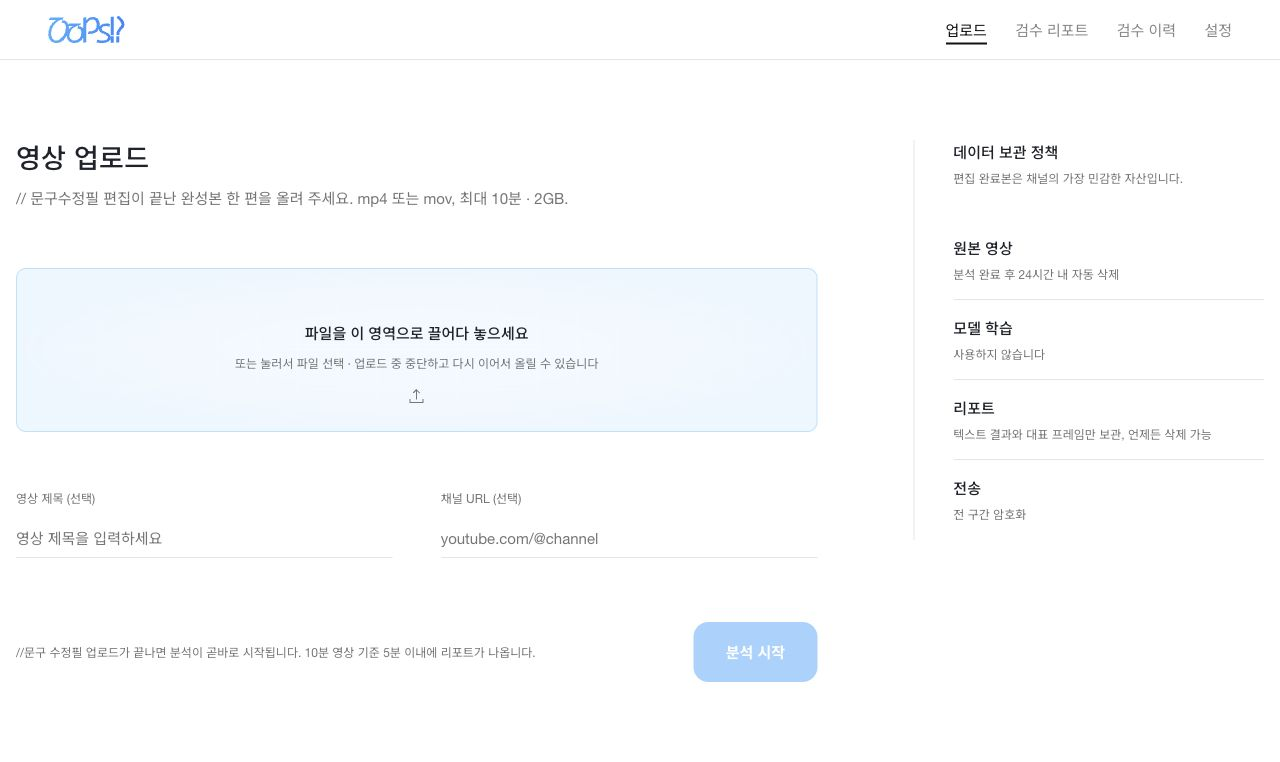
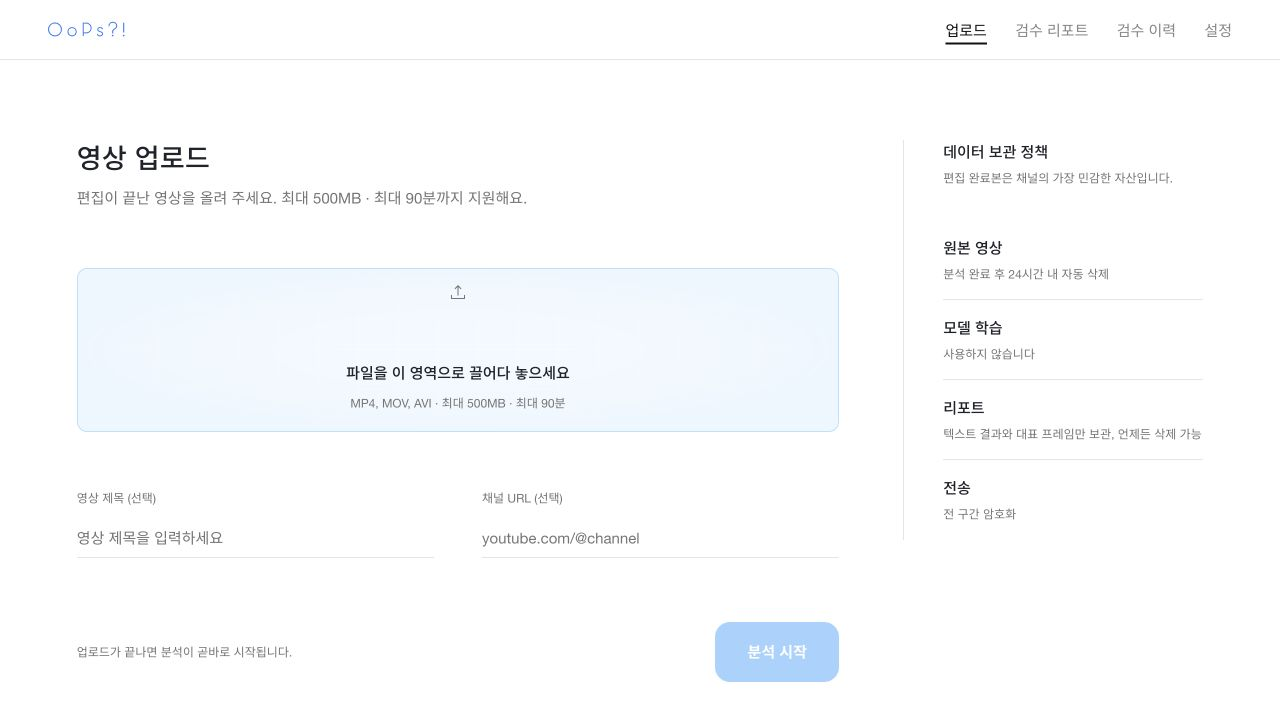
docs: update project screenshots and README documentation

diff --git a/README.md b/README.md
@@ -6,12 +6,12 @@
 
 **업로드 전에, 다시 확인할 구간만 찾습니다.**
 
-편집이 끝난 영상의 발언·화면 자막·화면 속 삽입 이미지를 분석해<br />
-제작자가 직접 검토할 타임라인을 만드는 **React 19 + TypeScript MVP**입니다.
+편집이 끝난 영상의 발언과 화면을 살펴보고,<br />
+제작자가 직접 검토할 타임라인을 만드는 **React 19 · TypeScript MVP**입니다.
 
 <p>
   <a href="#빠른-시작">빠른 시작</a> ·
-  <a href="#화면">화면</a> ·
+  <a href="#제품-경험">제품 경험</a> ·
   <a href="#api-연결">API 연결</a> ·
   <a href="#검증">검증</a>
 </p>
@@ -19,78 +19,53 @@
 ![React](https://img.shields.io/badge/React-19-149eca?style=flat-square&logo=react&logoColor=white)
 ![TypeScript](https://img.shields.io/badge/TypeScript-6-3178c6?style=flat-square&logo=typescript&logoColor=white)
 ![Vite](https://img.shields.io/badge/Vite-8-646cff?style=flat-square&logo=vite&logoColor=white)
-![Mock API](https://img.shields.io/badge/API-Mock%20Server-111827?style=flat-square)
+![STOMP](https://img.shields.io/badge/WebSocket-STOMP-111827?style=flat-square)
 
 </div>
 
 <br />
 
 > OoPs!?는 논란 여부를 판정하거나 영상을 자동으로 고치지 않습니다.<br />
-> 근거가 보이는 검토 후보를 제시하고, 최종 판단은 제작자에게 남깁니다.
+> 확인이 필요한 후보와 근거를 보여주고, 최종 판단은 제작자에게 남깁니다.
 
-## 빠른 시작
+## 프로젝트 소개
 
-```bash
-git clone <repository-url>
-cd CentralHackathon
-npm install
-npm run dev
-```
+영상은 완성된 뒤에도 한 번 더 확인할 순간이 있습니다. 발언과 자막의 강도가 달라지거나, 화면 속 문구가 의도보다 세게 전달되거나, 맥락을 더 확인해야 하는 장면이 생길 수 있습니다.
 
-| 주소 | 역할 |
-| --- | --- |
-| `http://localhost:5173` | Vite 프런트엔드 |
-| `http://localhost:3001` | 디스크 저장형 Mock REST/STOMP 서버 |
+Creator Risk Manager는 영상을 업로드하면 음성·화면 텍스트·장면 정보를 바탕으로 검토 후보를 시간순으로 정리합니다. 제작자는 해당 시점의 영상을 바로 확인하고, 수정·확인·보류를 선택할 수 있습니다.
 
-`npm run dev`가 두 서버를 함께 실행하고, Vite가 `/api`와 `/ws`를 Mock 서버로 프록시합니다.
+### 우리가 지키는 원칙
 
-### 개발용 옵션
+- 자동 판정 대신 **검토 후보와 근거**를 제공합니다.
+- 이벤트의 시간 정보를 기준으로 원본 영상의 해당 위치까지 이동합니다.
+- 분석이 일부 완료되지 않은 경우에도 결과와 경고를 구분해 보여줍니다.
+- 원본 영상과 분석 결과의 보관 정책을 명확하게 안내합니다.
 
-```bash
-# 분석 단계 전환 속도 조절
-MOCK_STEP_MS=300 npm run dev
+## 제품 경험
 
-# 첫 작업만 실패시켜 실패·재시도 화면 확인
-MOCK_FAIL_FIRST_JOB=true npm run dev
-```
+### 1. 랜딩
 
-업로드 파일과 작업 상태는 `mock-data/`에 저장됩니다. 이 디렉터리는 Git에 포함되지 않습니다.
-
-## 화면
-
-현재 구현은 Figma 화면을 기준으로 고정한 최소 프레젠테이션 계층입니다.<br />
-서버 DTO는 API 훅에서 화면용 상태로 변환되고, 실제 디자인이 도착하면 CSS와 프레젠테이션 컴포넌트만 교체할 수 있습니다.
-
-디자인 기준: [OoPs!? Figma 파일](https://www.figma.com/design/Zm5hPAQ7ujUmt5HRpxS9ZW/OoPs-?node-id=0-1&t=ywsrVSnoqyNMAk84-1)
-
-### 랜딩
-
-서비스가 무엇을 보고 무엇을 보지 않는지 설명하고, 두 CTA 모두 업로드 화면으로 연결됩니다.
+서비스가 어떤 정보를 확인하고 어떤 판단을 하지 않는지 설명합니다. 두 개의 업로드 CTA는 모두 영상 업로드 화면으로 이어집니다.
 
 <p align="center">
   <img src="assets/screenshots/landing.jpg" alt="OoPs!? 랜딩 페이지" width="900" />
 </p>
 
-### 업로드 · 빈 상태 · 설정
+### 2. 업로드
 
-<table>
-  <tr>
-    <td width="50%"><img src="assets/screenshots/upload.jpg" alt="영상 업로드 화면" /></td>
-    <td width="50%"><img src="assets/screenshots/settings.jpg" alt="설정 및 결제 화면" /></td>
-  </tr>
-  <tr>
-    <td align="center"><sub>영상 업로드</sub></td>
-    <td align="center"><sub>설정 · 결제</sub></td>
-  </tr>
-  <tr>
-    <td width="50%"><img src="assets/screenshots/report-empty.jpg" alt="빈 검수 리포트 화면" /></td>
-    <td width="50%"><img src="assets/screenshots/history-empty.jpg" alt="빈 검수 이력 화면" /></td>
-  </tr>
-  <tr>
-    <td align="center"><sub>검수 리포트 빈 상태</sub></td>
-    <td align="center"><sub>검수 이력 빈 상태</sub></td>
-  </tr>
-</table>
+`mp4`, `mov`, `avi` 파일을 업로드할 수 있습니다. 현재 화면은 최대 500MB·최대 90분 정책을 안내하며, 파일을 끌어놓거나 선택하는 방식을 지원합니다.
+
+### 3. 분석 진행
+
+업로드 직후 `PENDING` 상태로 작업이 생성됩니다. 분석 화면은 먼저 REST 상태를 복구한 뒤 STOMP 진행률을 구독하고, 연결이 끊기면 3초 간격 polling으로 전환합니다. 새로고침하거나 화면을 닫아도 작업 상태를 다시 확인할 수 있습니다.
+
+### 4. 검수 리포트
+
+완료된 분석은 타임라인 후보로 표시됩니다. 후보를 선택하면 영상이 `startMs / 1000` 위치로 이동하고, 필요하면 대표 프레임·참고 자료·부분 분석 경고를 함께 확인할 수 있습니다.
+
+### 5. 검수 완료와 이력
+
+검수 후보를 모두 확인한 뒤 완료 화면으로 이동합니다. 검수 이력에서는 업로드한 영상의 상태, 진행률, 후보 수를 확인할 수 있으며, 아직 영상이 없을 때는 업로드 화면으로 안내합니다.
 
 ## 사용자 흐름
 
@@ -102,26 +77,56 @@ flowchart LR
   C -->|COMPLETED| D[검수 리포트 /videos/:id/report]
   C -->|FAILED| E[원인 표시]
   E -->|다시 분석하기| C
-  D -->|이벤트 선택| F[영상 startMs 위치로 seek]
+  D -->|후보 선택| F[영상 startMs 위치로 이동]
   G[검수 이력 /history] -->|완료 작업 선택| D
 ```
 
-## 주요 경로
+## 빠른 시작
 
-| 화면 | 경로 | 연결 지점 |
+```bash
+git clone <repository-url>
+cd CentralHackathon
+npm install
+npm run dev
+```
+
+개발 서버가 실행되면 다음 주소를 사용할 수 있습니다.
+
+| 주소 | 역할 |
+| --- | --- |
+| `http://localhost:5173` | Vite 프런트엔드 |
+| `http://localhost:3001` | 디스크 저장형 Mock REST·STOMP 서버 |
+
+`npm run dev`는 프런트엔드와 Mock 서버를 함께 실행합니다. Vite 개발 서버는 `/api`와 `/ws` 요청을 Mock 서버로 프록시합니다.
+
+### Mock 서버 옵션
+
+```bash
+# 분석 단계 전환을 빠르게 확인
+MOCK_STEP_MS=300 npm run dev
+
+# 첫 분석만 실패시켜 실패·재시도 흐름 확인
+MOCK_FAIL_FIRST_JOB=true npm run dev
+```
+
+업로드 파일과 작업 상태는 로컬 `mock-data/`에 저장됩니다. 해당 디렉터리는 Git에 포함되지 않습니다.
+
+## 화면과 라우트
+
+| 화면 | 경로 | 주요 동작 |
 | --- | --- | --- |
-| 랜딩 | `/` | API 없음 · 업로드 CTA만 제공 |
-| 영상 업로드 | `/upload` | `POST /api/v1/videos` |
-| 분석 진행 | `/videos/:videoId/analysis` | `GET /status`, STOMP `/ws`, 3초 polling fallback |
-| 검수 리포트 | `/videos/:videoId/report` | `GET /report`, Range 영상 스트림, 프레임 URL |
-| 검수 리포트 빈 상태 | `/report` | 업로드 유도 CTA |
-| 검수 이력 | `/history` | `GET /api/v1/videos` |
-| 설정 · 결제 | `/settings` | MVP에서는 안내 화면만 제공 |
+| 랜딩 | `/` | 서비스 소개, 업로드 CTA |
+| 영상 업로드 | `/upload` | 파일 선택·업로드, 형식·크기 정책 안내 |
+| 분석 진행 | `/videos/:videoId/analysis` | 상태 복구, STOMP 진행률, polling fallback, 재시도 |
+| 검수 리포트 | `/videos/:videoId/report` | 타임라인, 영상 seek, 참고 자료, 검수 액션 |
+| 검수 완료 | `/videos/:videoId/completed` | 검수 요약, 타임코드 복사, 다음 작업 안내 |
+| 검수 리포트 빈 상태 | `/report` | 업로드 유도 화면 |
+| 검수 이력 | `/history` | 전체·완료·실패 건수와 영상별 상태 |
+| 설정 | `/settings` | 보관·결제·계정 정책 안내 |
 
 ## API 연결
 
-프런트의 모든 HTTP 요청은 [`src/api/client.ts`](src/api/client.ts)를 통과합니다.<br />
-실제 Spring 서버가 준비되면 코드 수정 없이 주소와 계약만 맞춰 환경변수를 바꿉니다.
+프런트의 HTTP 요청은 모두 [`src/api/client.ts`](src/api/client.ts)를 거칩니다. 서버 주소를 환경변수로 지정하면 화면 컴포넌트의 수정 없이 실제 Spring API로 교체할 수 있습니다.
 
 ```bash
 VITE_API_BASE_URL=https://api.example.com \
@@ -129,35 +134,51 @@ VITE_WS_URL=wss://api.example.com/ws \
 npm run dev
 ```
 
-필수 계약은 다음과 같습니다.
+`VITE_API_BASE_URL`에는 `/api/v1`을 포함하지 않은 API 서버 주소를 입력합니다. 프런트가 `/api/v1` 경로를 붙여 요청합니다.
 
-- REST base path: `/api/v1`
-- WebSocket endpoint: `/ws`
-- 업로드: `POST /videos` (`mp4`, `mov`, `avi`, 최대 500MB)
-- 상태: `GET /videos/:id/status`
-- 리포트: `GET /videos/:id/report`
-- 재시도: `POST /videos/:id/analysis/retry`
-- 영상: `GET /videos/:id/stream` (`Range`, `206`, `416` 지원)
-- 진행률: STOMP `/topic/videos/:id/progress`
+### 외부 API 계약
 
-> **Vercel 배포 참고**<br />
-> Vercel 정적 배포에는 `server/index.ts`가 포함되지 않습니다. 배포 환경에서는 `VITE_API_BASE_URL`과 `VITE_WS_URL`을 실제 API 서버로 지정하고, API 서버에서 프런트 도메인 CORS와 WebSocket origin을 허용해야 합니다. 주소를 지정하지 않은 정적 데모에서는 이력 화면이 연결 안내가 포함된 빈 상태로 표시됩니다.
+| 기능 | 요청 |
+| --- | --- |
+| 업로드 | `POST /api/v1/videos` · `multipart/form-data` · `file`, optional `genre` |
+| 상태 조회 | `GET /api/v1/videos/:videoId/status` |
+| 검수 이력 | `GET /api/v1/videos` |
+| 리포트 | `GET /api/v1/videos/:videoId/report` |
+| 재시도 | `POST /api/v1/videos/:videoId/analysis/retry` |
+| 영상 재생 | `GET /api/v1/videos/:videoId/stream` · HTTP Range |
+| 프레임 | `GET /api/v1/videos/:videoId/frames/:frameId` |
+| 진행률 | STOMP `/ws` 구독 `/topic/videos/:videoId/progress` |
+
+성공 응답은 `success / message / data`, 오류 응답은 `success / message / error.code / error.traceId` 구조를 사용합니다. 프런트는 `error.code`로 상태를 분기하고, `message`를 사용자에게 표시합니다.
+
+리포트 이벤트는 `startMs`, `endMs`, `type`, `reason`, `frameUrl`을 기본으로 사용하며, 필요에 따라 `candidateType`, `references[]`, `coverage[]`, `warnings[]`를 받을 수 있습니다.
+
+### WebSocket 동작
+
+- 구독 경로: `/topic/videos/:videoId/progress`
+- `jobId`가 현재 분석 작업과 다르면 오래된 메시지를 무시합니다.
+- 연결이 실패하거나 끊기면 3초 polling으로 상태를 확인합니다.
+- `COMPLETED` 수신 시 리포트로 이동하고, `FAILED` 수신 시 원인과 재시도 버튼을 표시합니다.
+
+### Vercel 배포 참고
+
+Vercel의 정적 배포에는 `server/index.ts`가 포함되지 않습니다. 배포 시 실제 API 서버의 주소를 `VITE_API_BASE_URL`, `VITE_WS_URL`에 지정하고, 백엔드에서 프런트 도메인의 CORS와 WebSocket origin을 허용해야 합니다.
 
 ## 프로젝트 구조
 
 ```text
 .
 ├── src/
-│   ├── api/                 # DTO 타입과 단일 API client
-│   ├── components/          # 공통 shell, 상태 UI
-│   ├── hooks/               # 업로드·진행률·리포트·재시도 상태
-│   ├── App.tsx              # 라우트와 화면 조합
-│   ├── style.css            # Figma 기준 토큰·반응형 스타일
-│   └── assets/logo/         # OoPs!? 로고 SVG
-├── server/index.ts          # 임시 REST + STOMP Mock 서버
+│   ├── api/                  # API DTO와 단일 API client
+│   ├── components/           # 공통 shell과 상태 UI
+│   ├── hooks/                # 업로드·진행률·리포트·재시도 상태
+│   ├── styles/               # 공통·페이지별 CSS
+│   ├── App.tsx               # 라우트와 화면 조합
+│   └── assets/logo/          # OoPs!? 로고 SVG
+├── server/index.ts           # 임시 REST + STOMP Mock 서버
 ├── scripts/contract-smoke.ts # 핵심 API 계약 스모크 테스트
-├── assets/screenshots/      # README와 공유용 화면 캡처
-└── mock-data/               # 로컬 업로드·상태 저장 (Git 제외)
+├── assets/screenshots/       # README용 화면 캡처
+└── mock-data/                # 로컬 업로드·상태 저장 (Git 제외)
 ```
 
 ## 검증
@@ -170,13 +191,38 @@ npm run build
 git diff --check
 ```
 
-Mock 서버는 업로드, 상태 전이, 첫 작업 실패/재시도, 리포트, 프레임, 영상 Range 스트리밍, STOMP 진행률을 제공합니다.
+계약 스모크 테스트는 업로드, 이력 조회, 상태 전이, 완료 리포트, 영상 Range 응답을 확인합니다. Mock 서버는 첫 작업 실패와 재시도, 프레임 응답, STOMP 진행률도 제공합니다.
 
 ## 현재 범위
 
-포함: 업로드 전 검토 UI, 진행률 복구, polling fallback, 실패·재시도, 리포트 타임라인, 영상 seek, 빈 상태, 반응형 최소 레이아웃.
+### 포함
 
-제외: 인증, 사용자별 영상 목록 권한, 결제 연동, 결과 편집·다운로드, 실제 AI 분석, Spring ↔ Python 내부 API.
+- 업로드 전 검토 안내와 최소 반응형 UI
+- 파일 업로드와 분석 상태 복구
+- STOMP 진행률 및 polling fallback
+- 분석 실패·재시도 흐름
+- 리포트 타임라인과 영상 위치 이동
+- 참고 자료·부분 분석 경고 표시
+- 검수 완료 화면과 검수 이력
+- 디스크 저장형 Mock REST·STOMP 서버
+
+### 아직 포함하지 않는 것
+
+- 인증과 사용자별 권한
+- 결제·플랜 변경의 실제 처리
+- 실제 AI 분석 및 외부 검색
+- Spring ↔ Python 내부 API 구현
+- 결과 편집·다운로드
+- 서버 측 검수 액션 영구 저장
+
+## 다음 단계
+
+실제 백엔드가 준비되면 프런트는 다음 순서로 연결합니다.
+
+1. Spring API와 `VITE_API_BASE_URL`, `VITE_WS_URL`을 연결합니다.
+2. Swagger/OpenAPI 응답이 본 README의 외부 DTO 계약과 일치하는지 확인합니다.
+3. CORS, WebSocket origin, Range 스트리밍을 배포 환경에서 검증합니다.
+4. 실제 영상으로 업로드부터 검수 완료까지 브라우저 E2E를 실행합니다.
 
 <div align="center">
 
